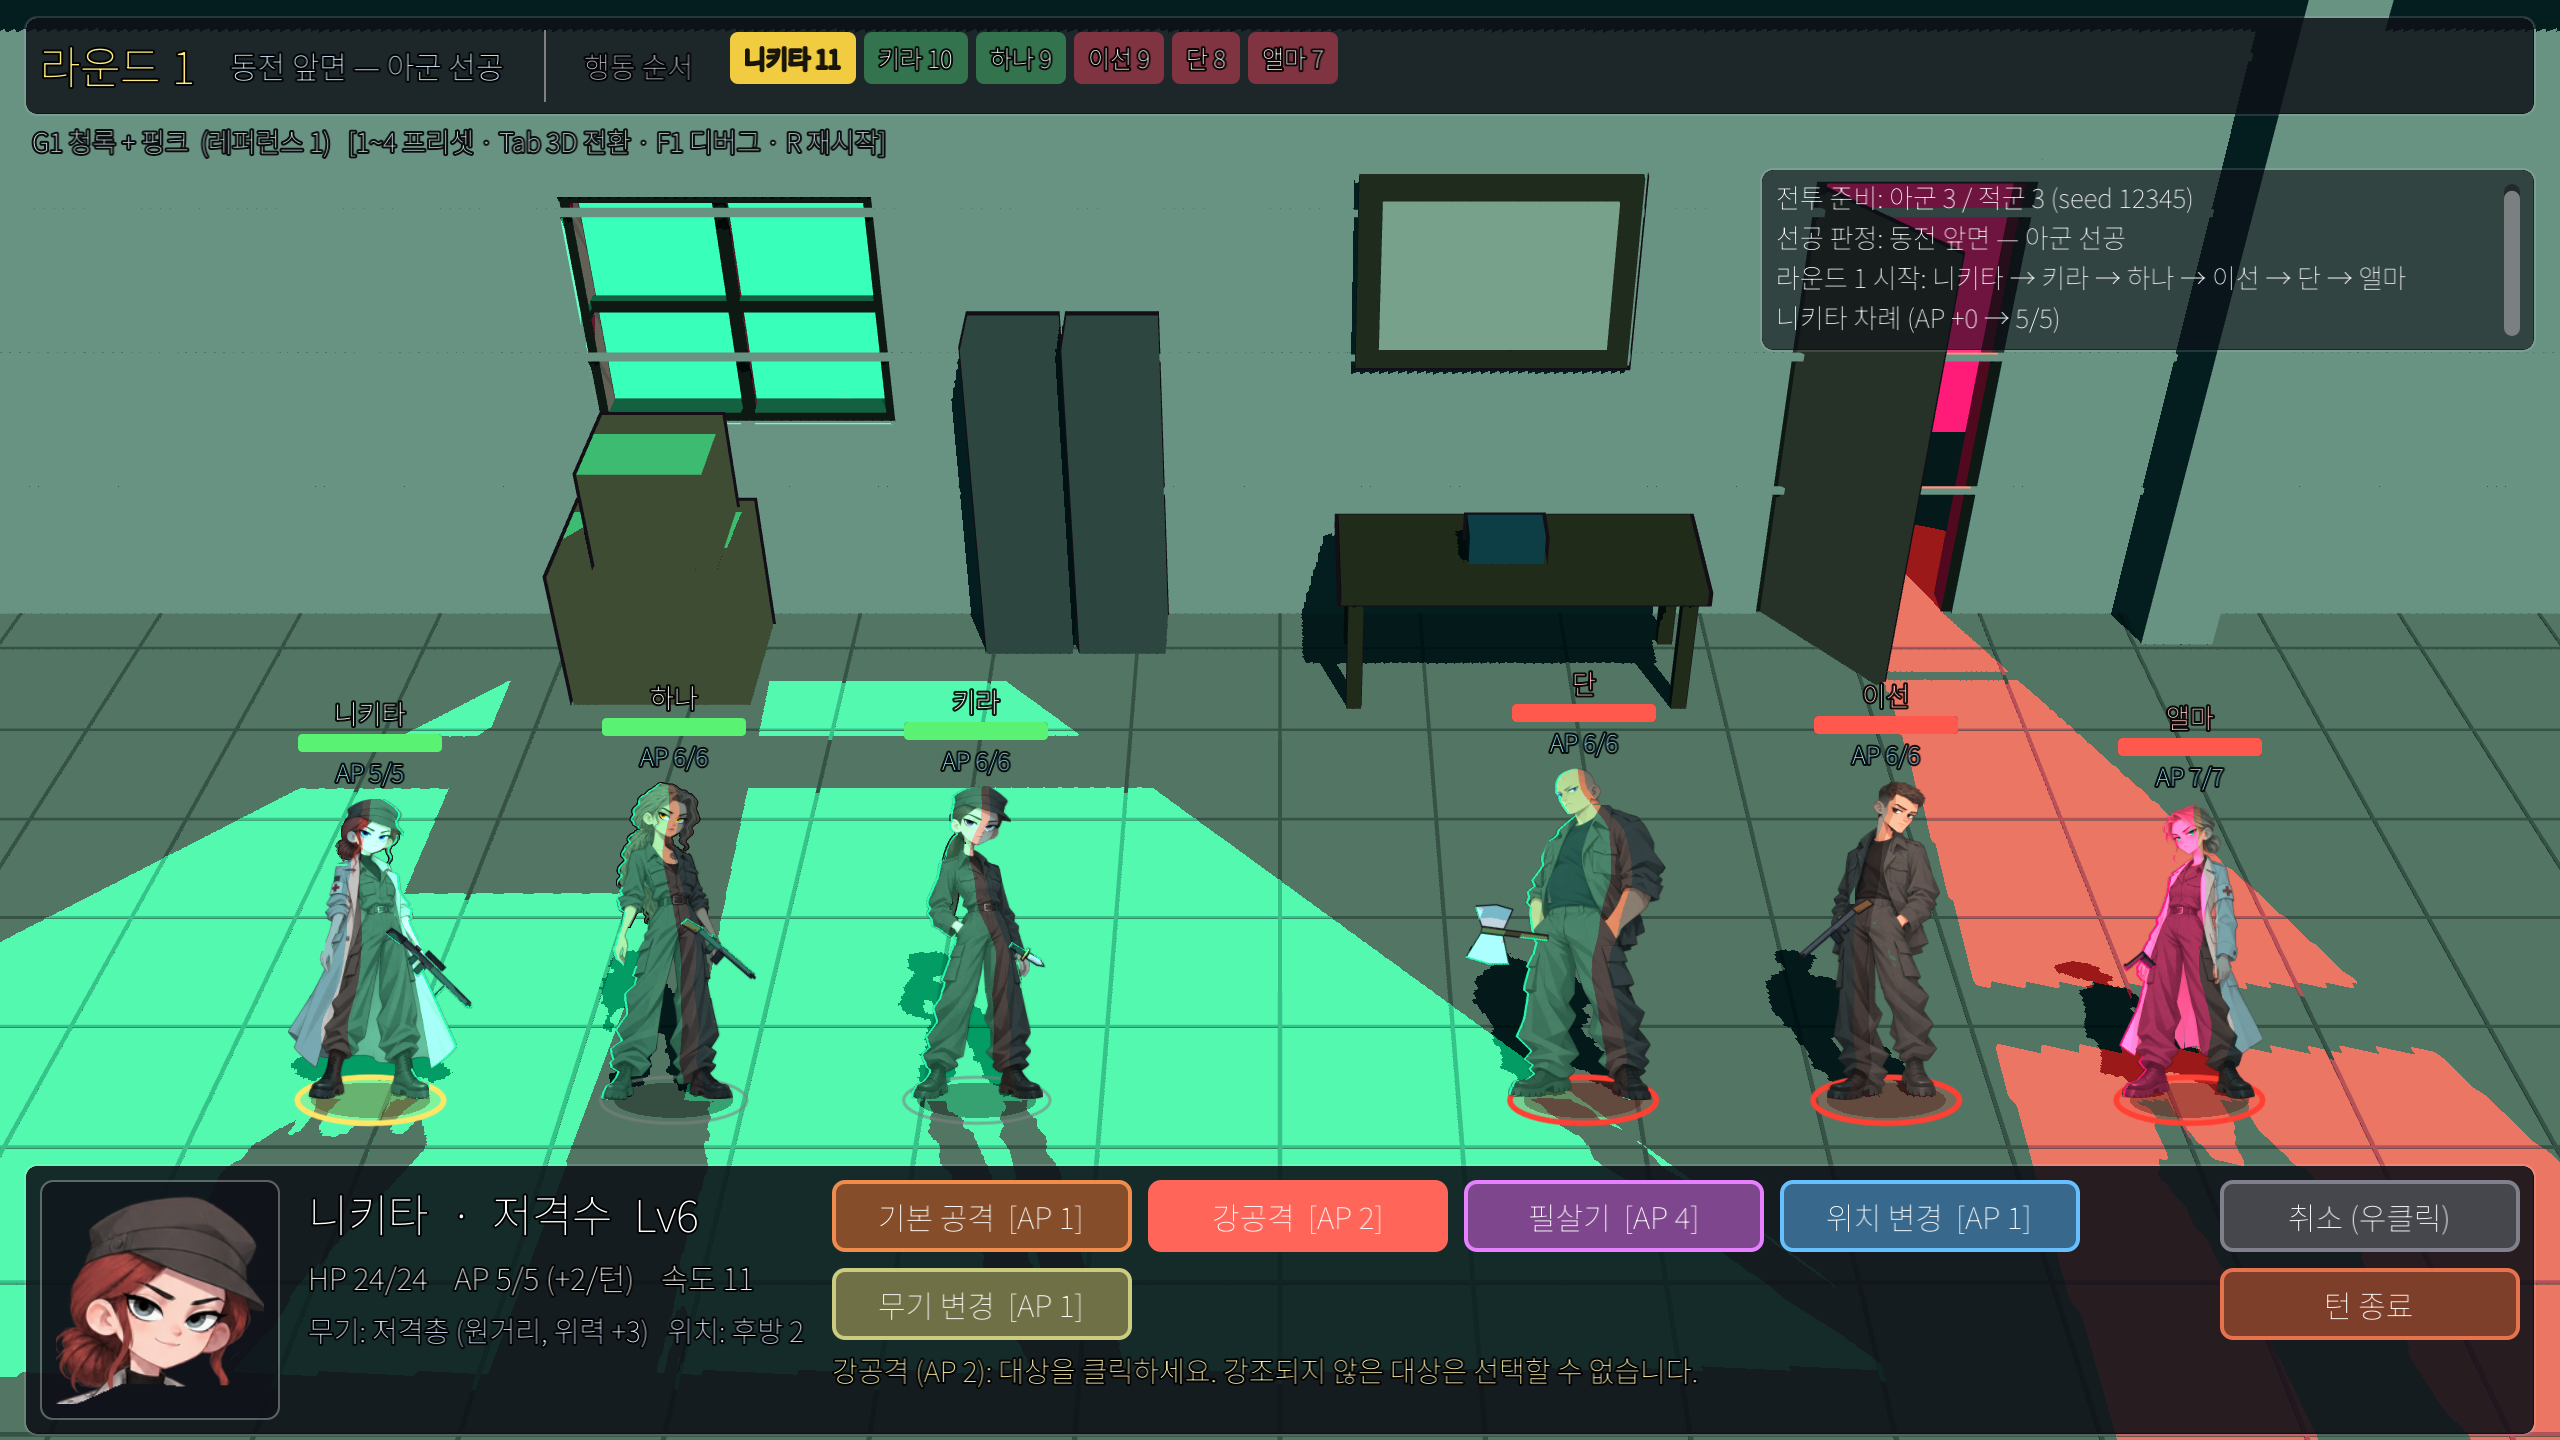
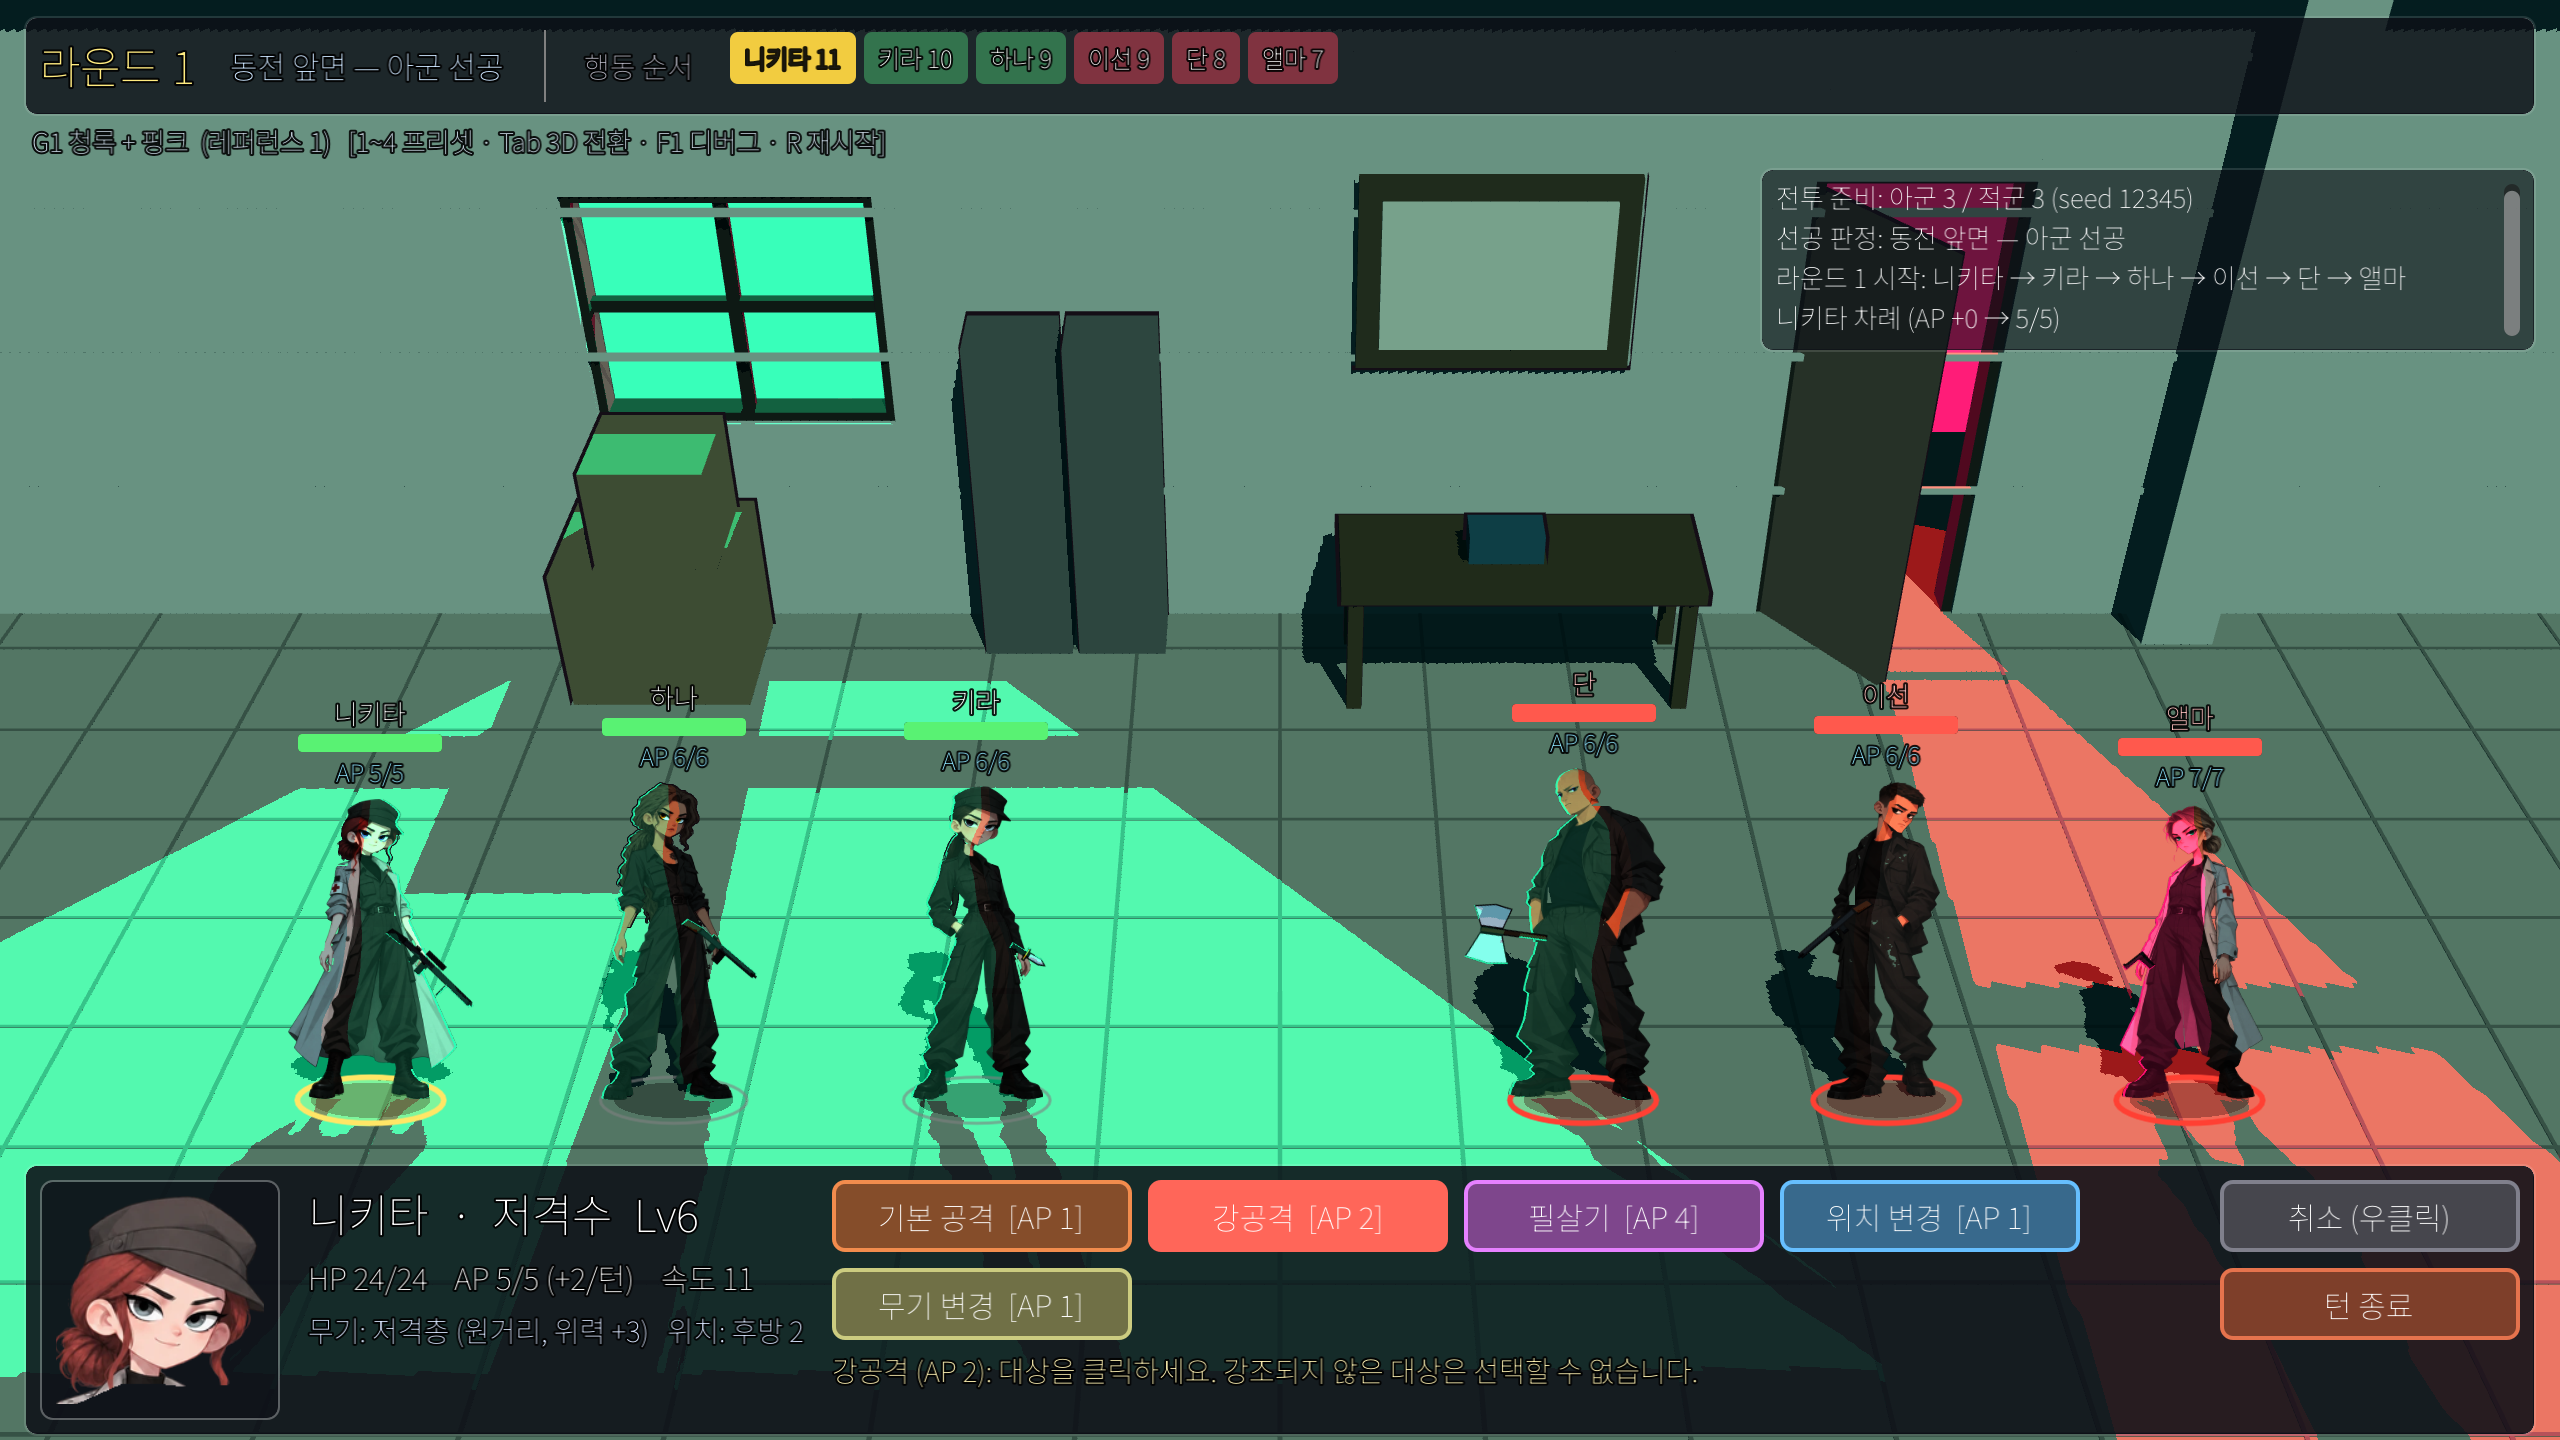
원화색 두 번 곱하는 진한 톤으로 확정 (외곽선 0.45px 유지)
Claude-Session: https://claude.ai/code/session_014aytw3hj7boqn3SZ5GP5ti

diff --git a/docs/design/00_decision_log_v1_0.md b/docs/design/00_decision_log_v1_0.md
@@ -30,7 +30,7 @@
   캐릭터 명암은 위치별 3D 광원 탐침(가장 센 빛 = 키, 뒤에서 오면 같은 쪽 림).
   이후에 시도한 v5~v7(빛 지도, 장면 팔레트 칠, 얼굴 보존, 외곽선 1.2px)은 되돌림.
   유지: 캐릭터 모양 그림자, 전투 불능 불투명, 이선 원화 눈 색, 6인 편성.
-- 원화색은 **한 번만 곱함** (2026-10-25): v4 셰이더가 텍스처색에 COLOR(이미 텍스처색)를 한 번 더 곱해 원화보다 진하고 어둡던 것을 수정 → 원화 밝기 그대로.
+- 원화색은 **두 번 곱함** 으로 확정 (2026-10-25): 셰이더가 텍스처색에 COLOR(이미 텍스처색)를 한 번 더 곱해 원화보다 진하고 어두운 톤. 한 번만 곱한 버전과 비교 후 결정.
 
 - 렌더 해상도 **QHD(2560×1440) 고정**. 리그 원화는 원본의 0.5배(키 약 750px)로 잘라 QHD 표시 키(약 300px)의 2.5배 해상도 확보.
 
